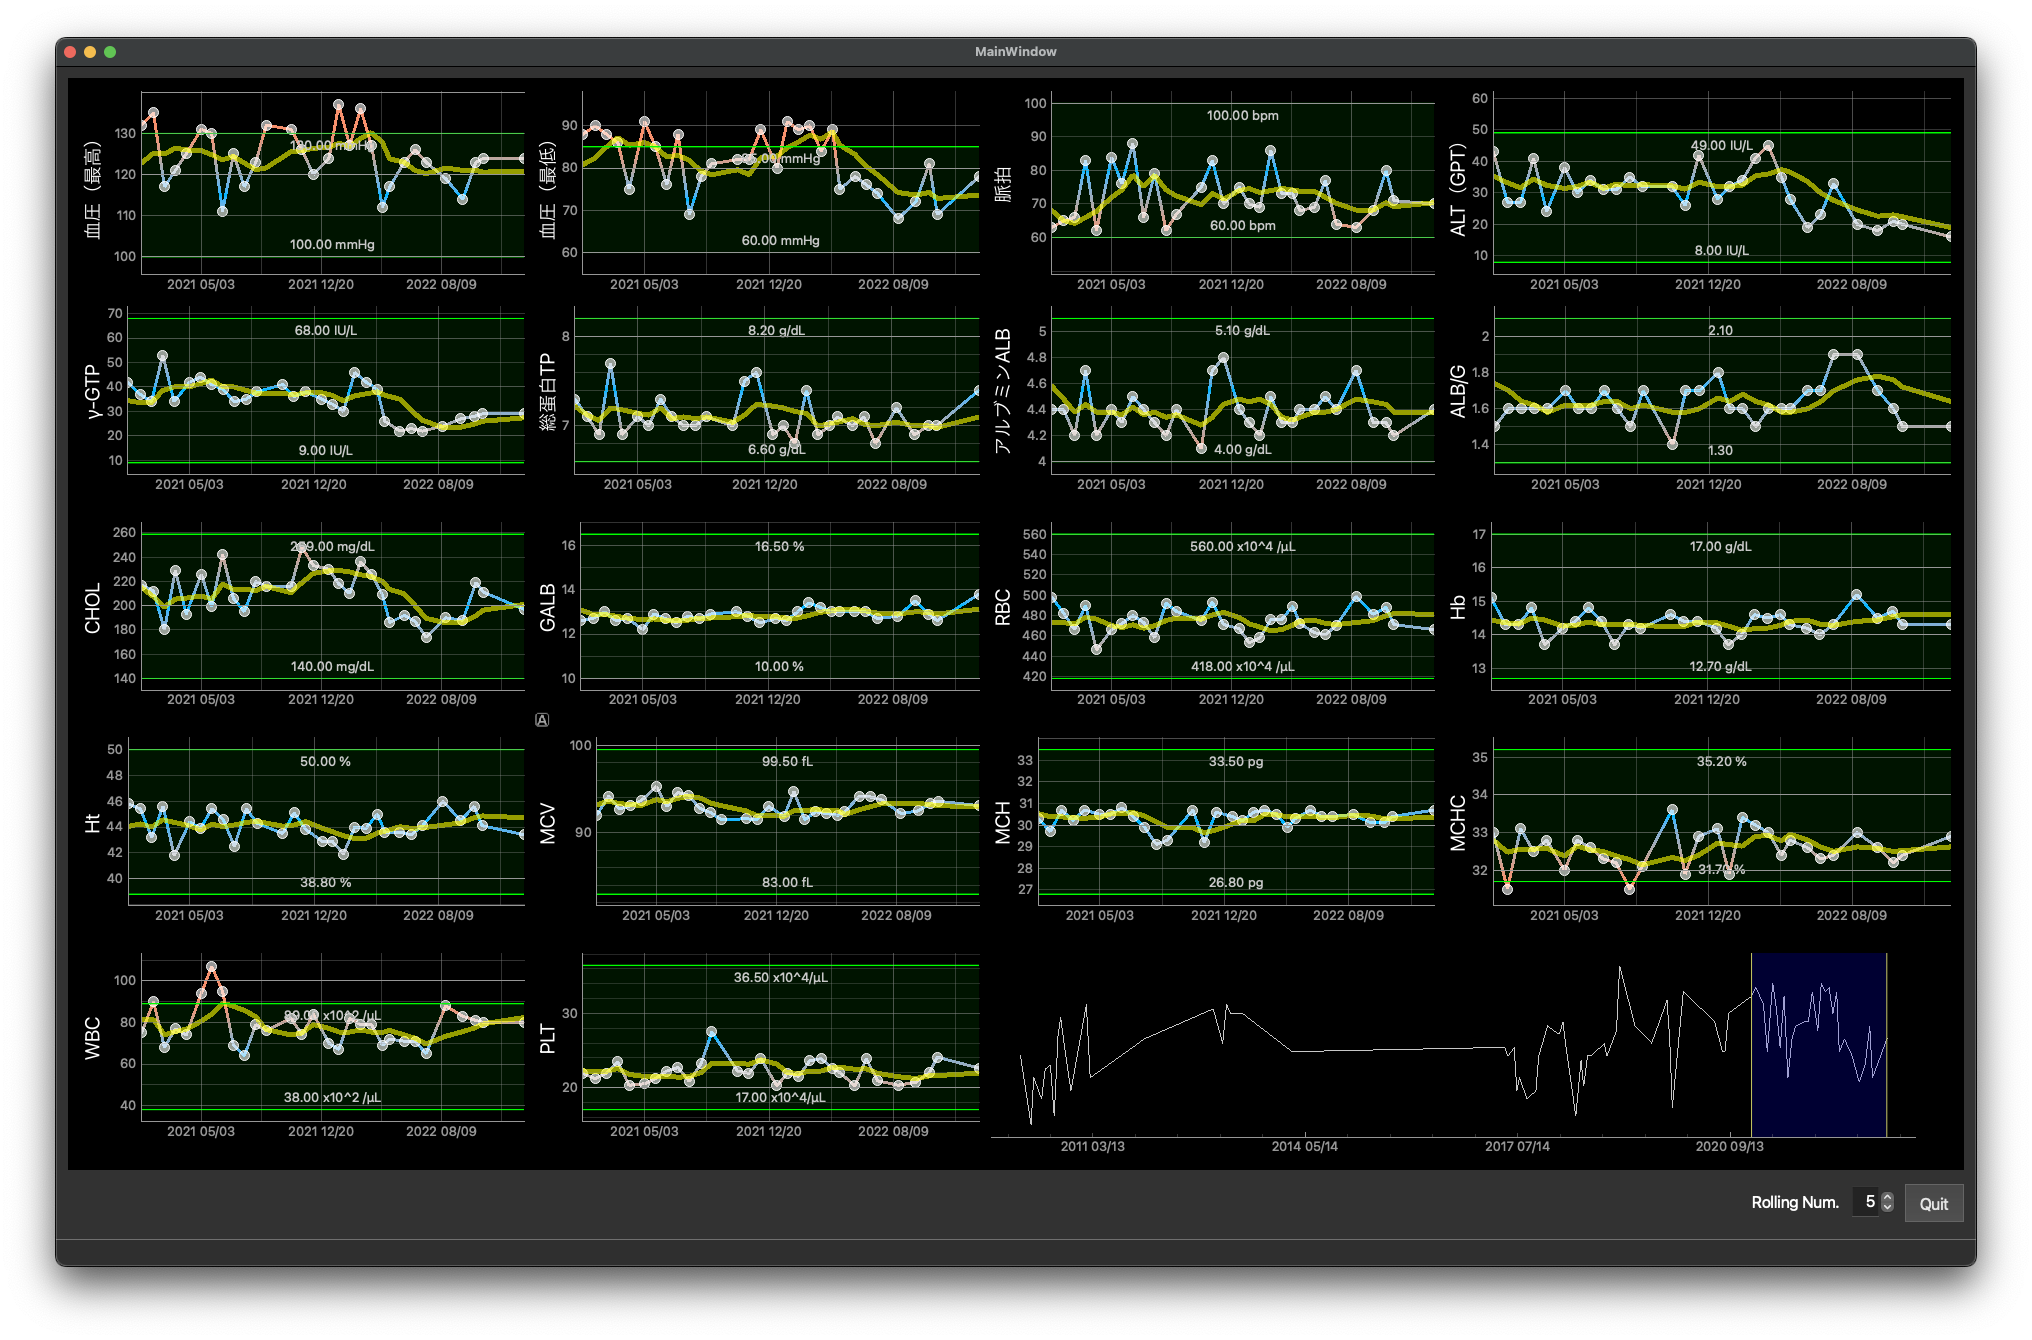
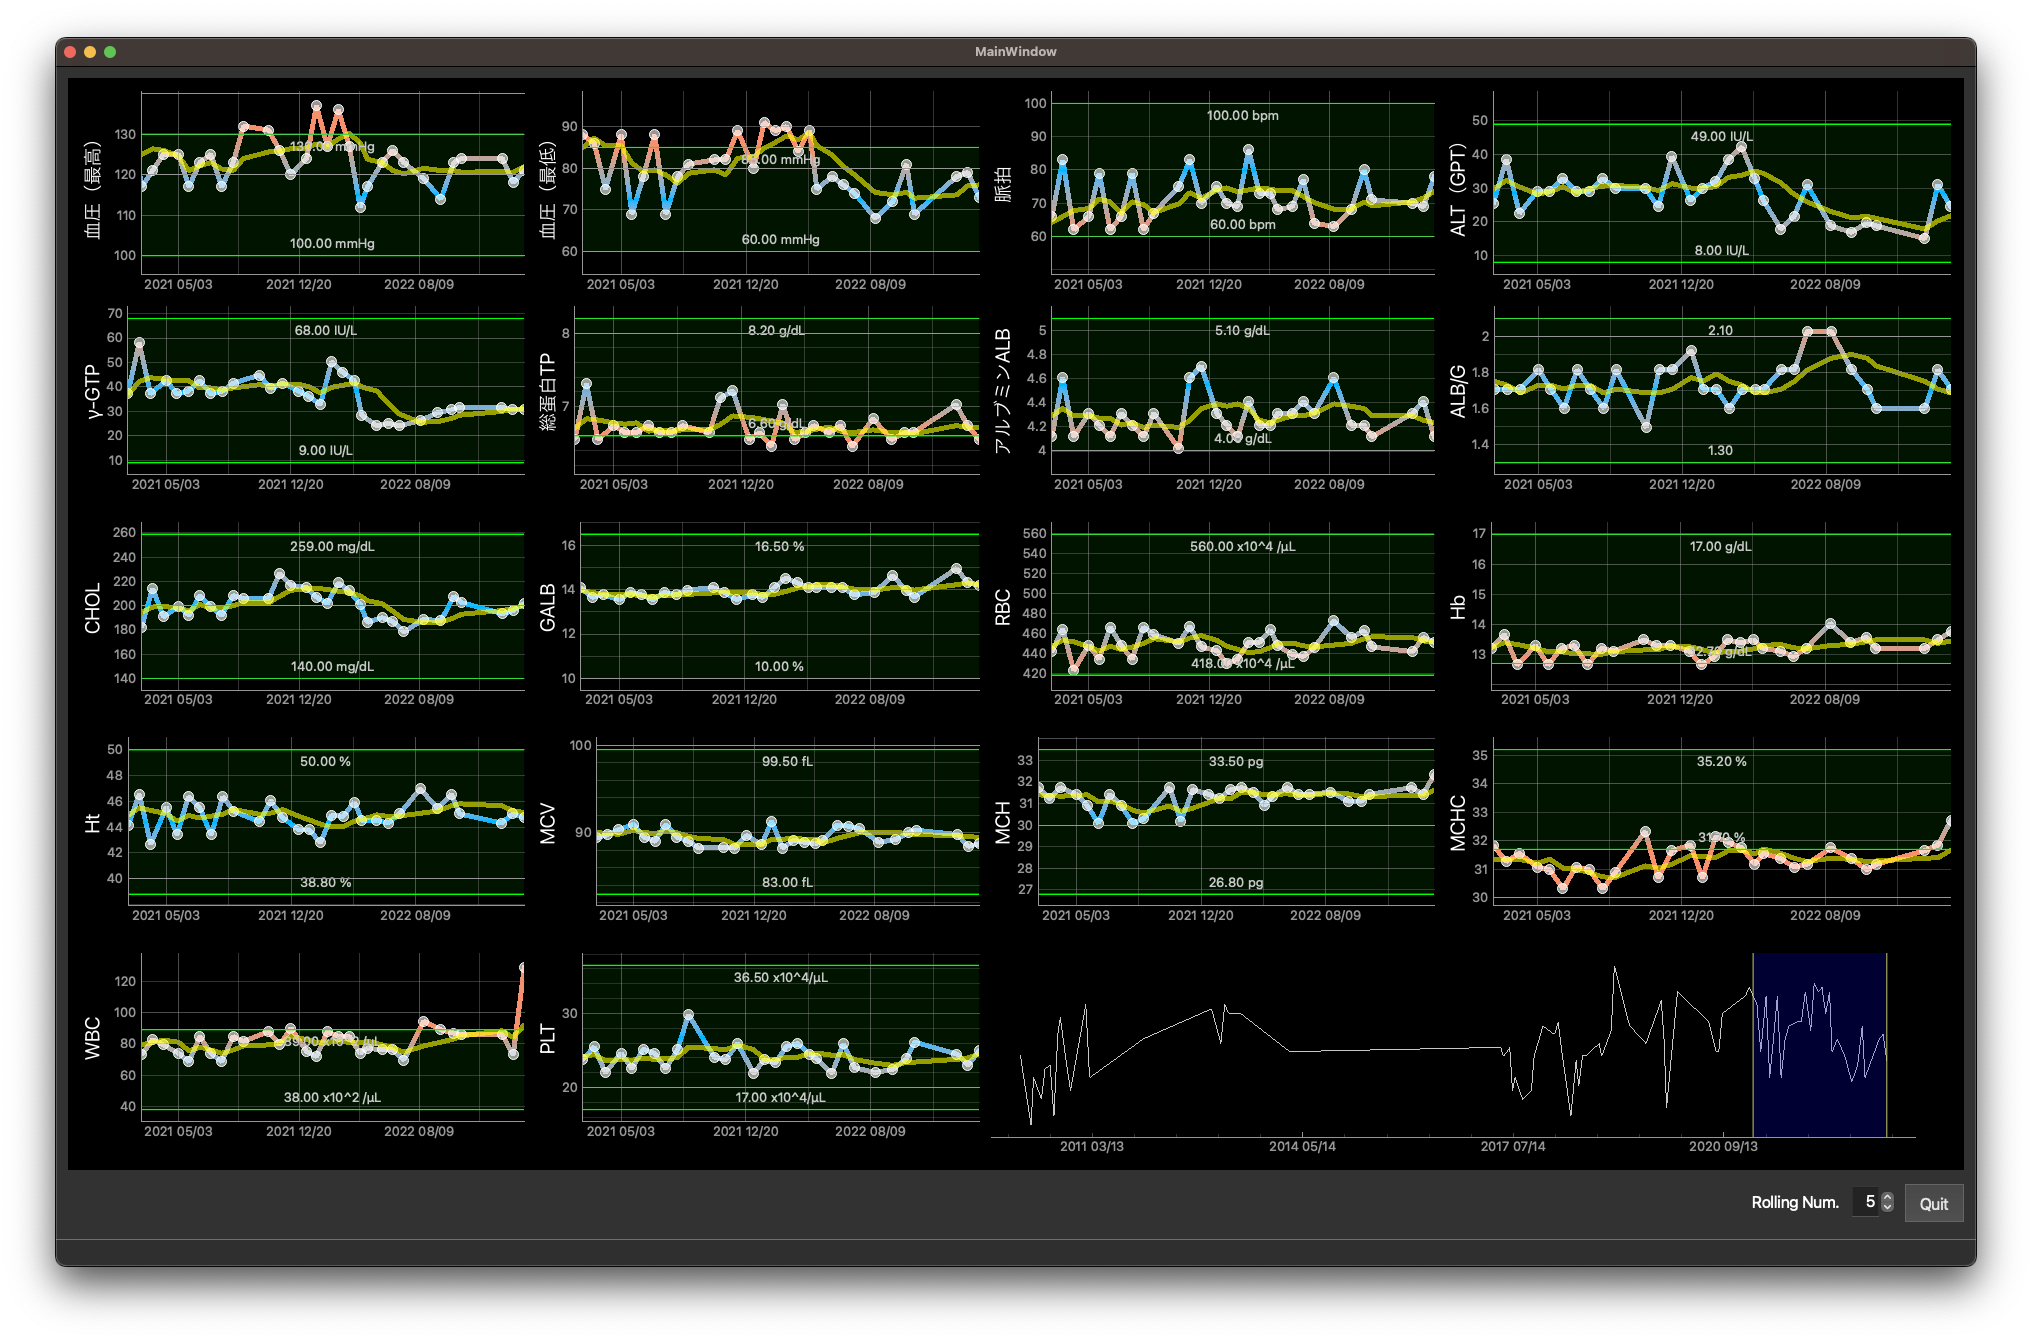
公開用にグラフの調整、READMEの作成

diff --git a/dataVizCall.py b/dataVizCall.py
@@ -117,6 +117,8 @@ class MainWindow(QMainWindow, Ui_MainWindow):
             #df2['血圧（最低）'] = df2['血圧（最低）'].astype(float)
             #df2['脈拍'] = df2['脈拍'].astype(float)
 
+
+
         
         self.df = df2.sort_index(axis='index',ascending=True)
         self.dt = self.df.index.astype(np.int64)//10**9
@@ -211,7 +213,7 @@ class MainWindow(QMainWindow, Ui_MainWindow):
 
         try:
             unit = standard_data[cols][2]
-            pen0 = cm2.getPen( span=(standard_data[cols][0], standard_data[cols][1]), width=3)
+            pen0 = cm2.getPen( span=(standard_data[cols][0], standard_data[cols][1]), width=5)
             graph_id.addItem(pg.PlotDataItem(self.dt, self.df[cols], pen=pen0, symbol='o', symbolPen=(255,255,255), symbolBrush=pg.mkBrush(255,255,255,150), symbolSize=10))
             graph_id.addItem(pg.PlotDataItem(self.dt, self.df[cols].rolling(self.spinBox.value()).mean(), pen=pg.mkPen((255,255,0,150), width=5)))
             self.df[lower]=standard_data[cols][0]

diff --git a/README.md b/README.md
@@ -60,6 +60,8 @@ selenium.common.exceptions.StaleElementReferenceException: Message: stale elemen
 ラブラッドサイトの解析は、Selenium IDEを使用しました。
 これがなかったら、解析の時間がもっとかかっていたと思われます。
 
+![](imgs/seleniumIDE.gif)
+
 
 ## csv2sqlite3.py
 
